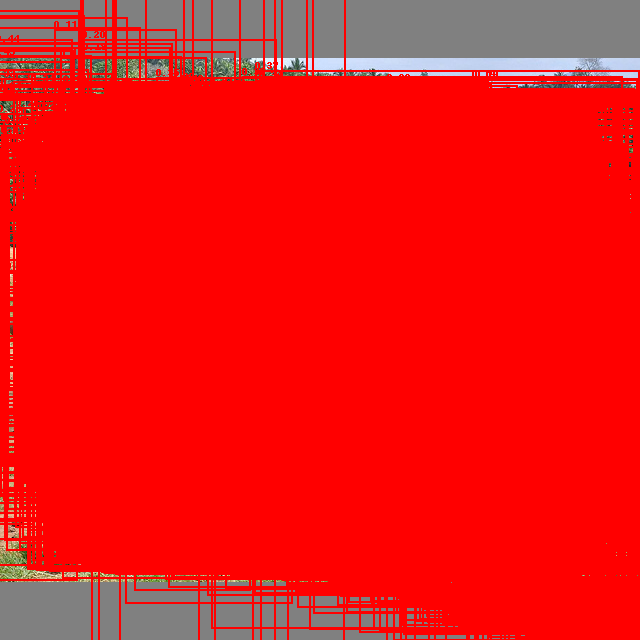
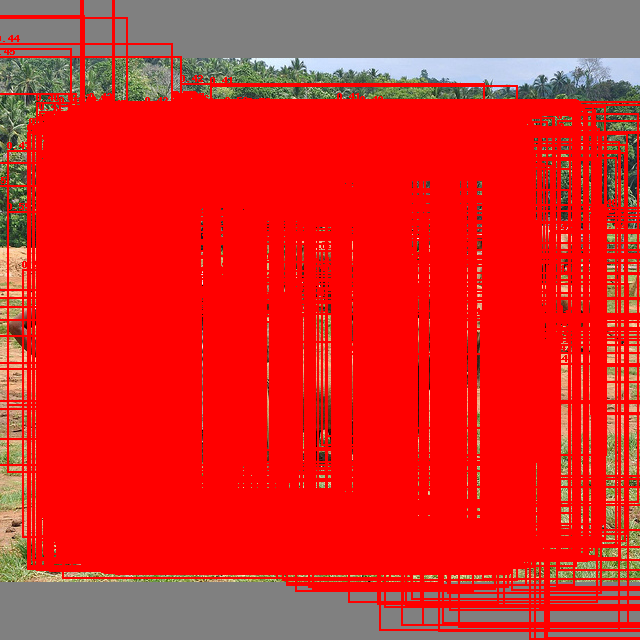
inin

diff --git a/inference.py b/inference.py
@@ -26,7 +26,7 @@ with torch.no_grad():
         images = images.to(device)
         preds = network(images)  # [1, 16, 5]
 
-        draw_bboxes(images[0], preds[0], conf_threshold=0.1, save_path=f"outputs/pred_{i}.png")
+        draw_bboxes(images[0], preds[0], conf_threshold=0.4, save_path=f"outputs/pred_{i}.png")
         if i == 9:
             break  
 
